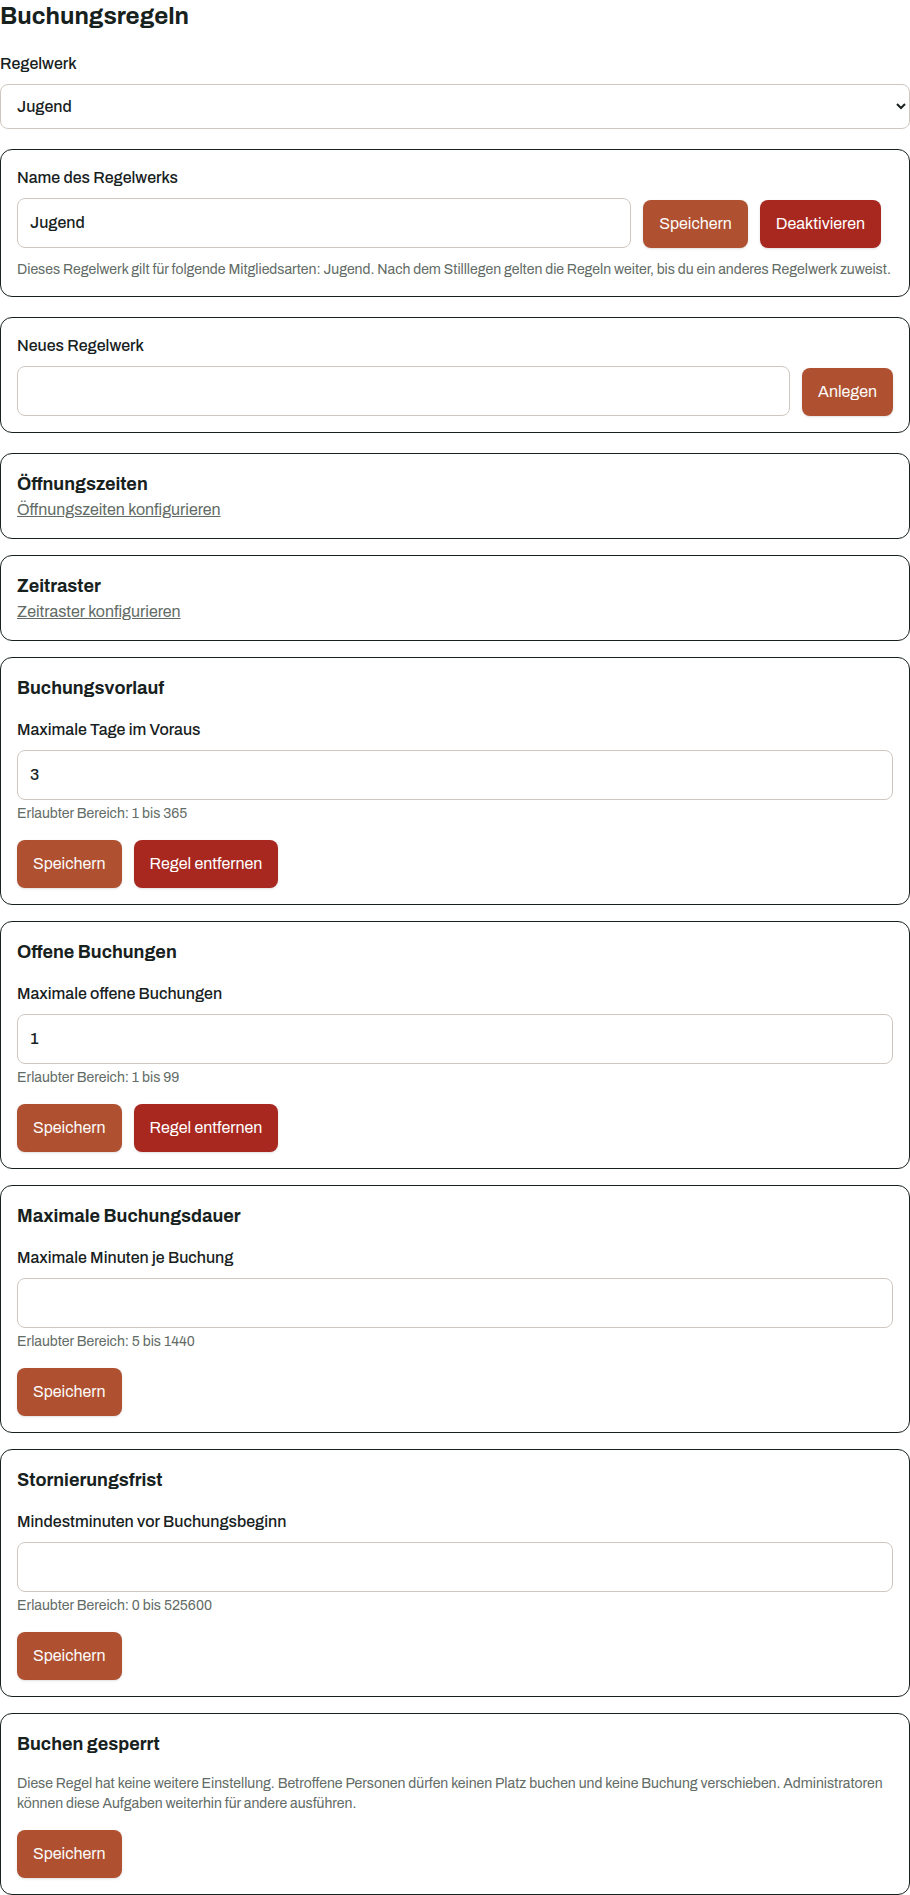
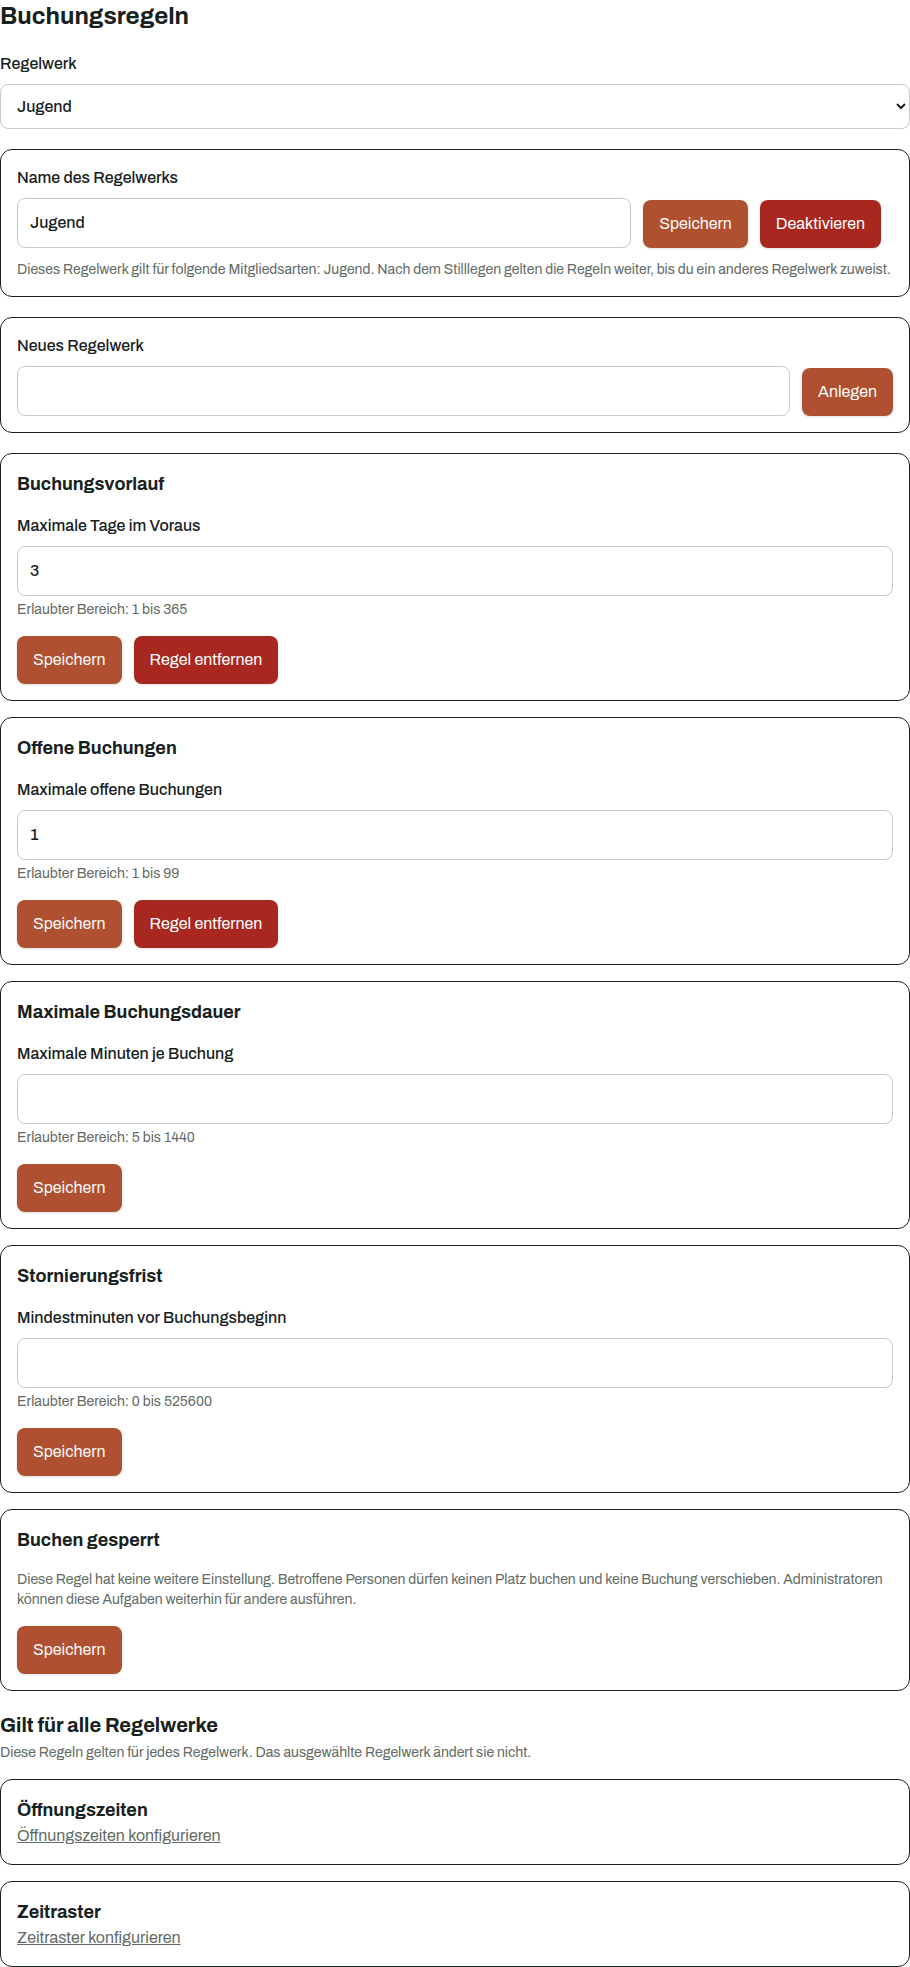
feat: show which booking rules no rule set can change
The rule list rendered every rule type the engine evaluates in one block under
the rule set selector, so opening hours and the booking grid read as settings of
the selected rule set. They are not: a club's hours describe the facility, and
two rule sets with different grids would draw two different plans of the same
courts. Only the missing fields and a link said so, and switching the rule set
was the only way to find out that they do not move.

They now stand in their own group, named and explained. The board guide already
said "Öffnungszeiten und Buchungsraster gelten für den ganzen Verein. Sie stehen
deshalb außerhalb der Regelwerke" — the screen it shows is what disagreed.

diff --git a/frontend/src/views/AdminConfigurationView.tsx b/frontend/src/views/AdminConfigurationView.tsx
@@ -460,8 +460,15 @@ export function AdminConfigurationView({ configurationChanged }: { configuration
             <TextField data-testid="new-rule-set-name" disabled={pending} name="name" maxLength={RULE_SET_NAME_LENGTH} label={t("admin.rules.newRuleSet")} />
             <Button variant="primary" data-testid="create-rule-set" disabled={pending} type="submit">{t("admin.create")}</Button>
           </form>
-          <div className="grid gap-4">
-            {ruleTypes.map((type) => <RuleEditor key={type.ruleType} type={type} definition={rules.find((rule) => rule.ruleType === type.ruleType)} disabled={loadedRuleSetId !== selectedRuleSetId} save={saveRule} remove={removeRule} />)}
+          <div data-testid="rule-set-rules" className="grid gap-4">
+            {ruleTypes.filter((type) => type.configurable).map((type) => <RuleEditor key={type.ruleType} type={type} definition={rules.find((rule) => rule.ruleType === type.ruleType)} disabled={loadedRuleSetId !== selectedRuleSetId} save={saveRule} remove={removeRule} />)}
+          </div>
+          <div data-testid="club-wide-rules" className="grid gap-4">
+            <div className="grid gap-1">
+              <h3 className="text-xl font-bold">{t("admin.rules.clubWide")}</h3>
+              <p data-testid="club-wide-rules-note" className="text-muted text-sm">{t("admin.rules.clubWideHelp")}</p>
+            </div>
+            {ruleTypes.filter((type) => !type.configurable).map((type) => <RuleEditor key={type.ruleType} type={type} definition={undefined} disabled save={saveRule} remove={removeRule} />)}
           </div>
         </div>
       </>}

diff --git a/frontend/src/i18n.ts b/frontend/src/i18n.ts
@@ -187,6 +187,8 @@ const resources = {
     "admin.rules.retireUnused": "Auf dieses Regelwerk zeigt derzeit keine Mitgliedsart. Stilllegen ändert für niemanden etwas.",
     "admin.rules.retireInUse": "Dieses Regelwerk gilt für folgende Mitgliedsarten: {{types}}. Nach dem Stilllegen gelten die Regeln weiter, bis du ein anderes Regelwerk zuweist.",
     "admin.rules.ruleSet": "Regelwerk",
+    "admin.rules.clubWide": "Gilt für alle Regelwerke",
+    "admin.rules.clubWideHelp": "Diese Regeln gelten für jedes Regelwerk. Das ausgewählte Regelwerk ändert sie nicht.",
     "admin.rules.global.OPENING_HOURS": "Öffnungszeiten konfigurieren",
     "admin.rules.global.SLOT_GRID": "Zeitraster konfigurieren",
     "admin.rules.saved": "Die Regel wurde gespeichert.",
@@ -1070,6 +1072,8 @@ const resources = {
     "admin.rules.retireUnused": "No membership type points at this rule set. Retiring it changes nothing for anybody.",
     "admin.rules.retireInUse": "This rule set applies to these membership types: {{types}}. Its rules remain active after retirement until you assign another rule set.",
     "admin.rules.ruleSet": "Rule set",
+    "admin.rules.clubWide": "Applies to every rule set",
+    "admin.rules.clubWideHelp": "These apply to every rule set. The selected rule set does not change them.",
     "admin.rules.global.OPENING_HOURS": "Configure opening hours",
     "admin.rules.global.SLOT_GRID": "Configure time grid",
     "admin.rules.saved": "The rule was saved.",

diff --git a/frontend/src/views/AdminConfigurationView.test.tsx b/frontend/src/views/AdminConfigurationView.test.tsx
@@ -454,6 +454,20 @@ describe("AdminConfigurationView", () => {
     expect(screen.getByTestId("password-reset-credential-hours")).toHaveAttribute("max", "168");
   });
 
+  it("given rules no rule set can change, when configuration loads, then they stand apart from the ones it can", async () => {
+    // when
+    render(<MemoryRouter><UnsavedChangesProvider><AdminConfigurationView configurationChanged={() => undefined} /></UnsavedChangesProvider></MemoryRouter>);
+    const clubWide = await screen.findByTestId("club-wide-rules");
+
+    // then
+    expect(clubWide).toContainElement(screen.getByTestId("rule-OPENING_HOURS-title"));
+    expect(clubWide).toContainElement(screen.getByTestId("rule-SLOT_GRID-title"));
+    expect(clubWide).not.toContainElement(screen.getByTestId("rule-ADVANCE_WINDOW-title"));
+    expect(screen.getByTestId("rule-set-rules")).not.toContainElement(screen.getByTestId("rule-OPENING_HOURS-title"));
+    expect(screen.getByTestId("club-wide-rules-note")).toHaveTextContent(
+      "These apply to every rule set. The selected rule set does not change them.");
+  });
+
   it("given an admin, when configuration loads, then club settings and every rule type are visible", async () => {
     // when
     render(<MemoryRouter><UnsavedChangesProvider><AdminConfigurationView configurationChanged={() => undefined} /></UnsavedChangesProvider></MemoryRouter>);
